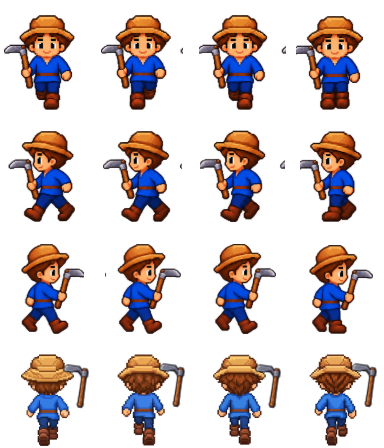
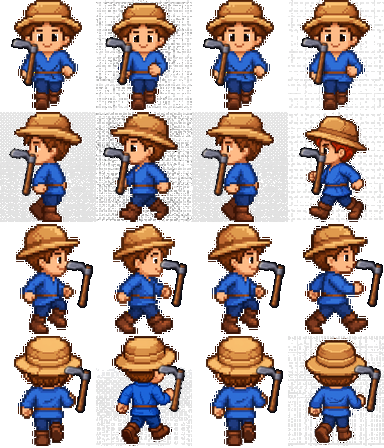
Update character sprite assets and documentation.
Replit-Commit-Author: Agent

diff --git a/.agents/memory/pose-generated-transparency.md b/.agents/memory/pose-generated-transparency.md
@@ -1,0 +1,10 @@
+---
+name: Trasparenza delle pose generate
+description: Precauzione per convertire immagini generate con reticolo in sprite pixel-art trasparenti e allineati.
+---
+
+Le immagini generate con un reticolo di trasparenza visibile non vanno inserite direttamente nel foglio sprite: il reticolo può avere alfa parziale e viene disegnato dal Canvas, anche quando sembra quasi trasparente.
+
+**Why:** Un bordo con alfa residuo altera l'appoggio rilevato dal renderer e mostra quadrati sullo sfondo di gioco.
+
+**How to apply:** Prima dell'assemblaggio, rimuovere le tinte del reticolo, controllare una cella su uno sfondo colorato e verificare che la sagoma finisca alla quota dei piedi prevista dal telaio canonico.

diff --git a/.agents/memory/MEMORY.md b/.agents/memory/MEMORY.md
@@ -5,3 +5,4 @@
 - [Ridimensionamento delle texture Pixi](pixi-texture-resize.md) — le texture Canvas che cambiano misura devono essere dinamiche prima di creare lo Sprite.
 - [Composizione canonica Pixi](pixi-canonical-composition.md) — per l'equivalenza pixel-perfect, Pixi presenta un frame opaco già composto anziché fondere layer trasparenti separati.
 - [Stile del protagonista approvato](protagonista-style.md) — mantenere la pixel-art densa con cappello ampio, volto grande, tunica blu e stivali; evitare versioni procedurali semplificate.
+- [Trasparenza delle pose generate](pose-generated-transparency.md) — le pose AI con reticolo richiedono una pulizia alfa controllata prima di entrare nei fogli sprite.
